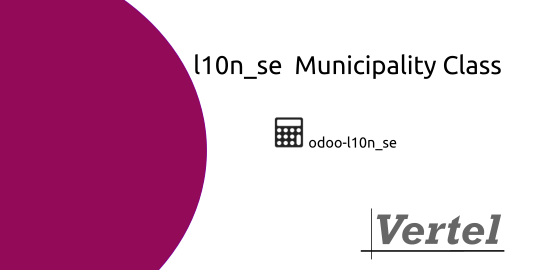
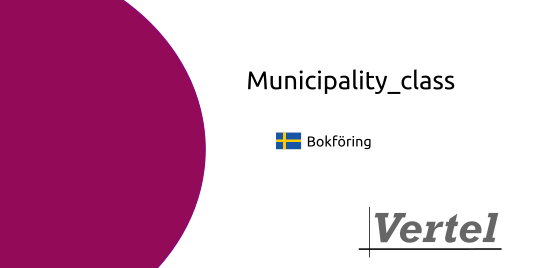
odoobranchpfile odoo-l10n_se from 18.0. Do not p-file sync

diff --git a/l10n_se_municipality_class/static/description/index.html b/l10n_se_municipality_class/static/description/index.html
@@ -1,0 +1,21 @@
+<section class="s_title pt32 pb32 o_colored_level" data-vcss="001" data-snippet="s_title" data-name="Title">
+  <div class="container s_allow_columns">
+    <h1 style="text-align: center;">
+      <font style="font-size: 62px;">Municipality_class</font>
+    </h1>
+  </div>
+</section>
+<section class="s_text_image pt32 pb32 o_colored_level" data-snippet="s_image_text" data-name="Image - Text">
+  <div class="container">
+    <div class="row align-items-start">
+      <div class="col-lg-6 pt16 pb16 o_colored_level">
+        <img src="/web/image/11508-8502ae9c/data_listing.png" class="img img-fluid mx-auto" alt="" loading="lazy" data-original-title="" title="Beskrivning av bild." aria-describedby="tooltip305522" data-original-id="11507" data-original-src="/web/image/11507-e4bf84d5/data_listing.png" data-mimetype="image/png" data-resize-width="407"/>
+      </div>
+      <div class="col-lg-6 pt16 pb16 o_colored_level">
+        <p>A list of Swedish Municipalities.</p>
+        <p>&amp;nbsp;
+        </p>
+      </div>
+    </div>
+  </div>
+</section>
